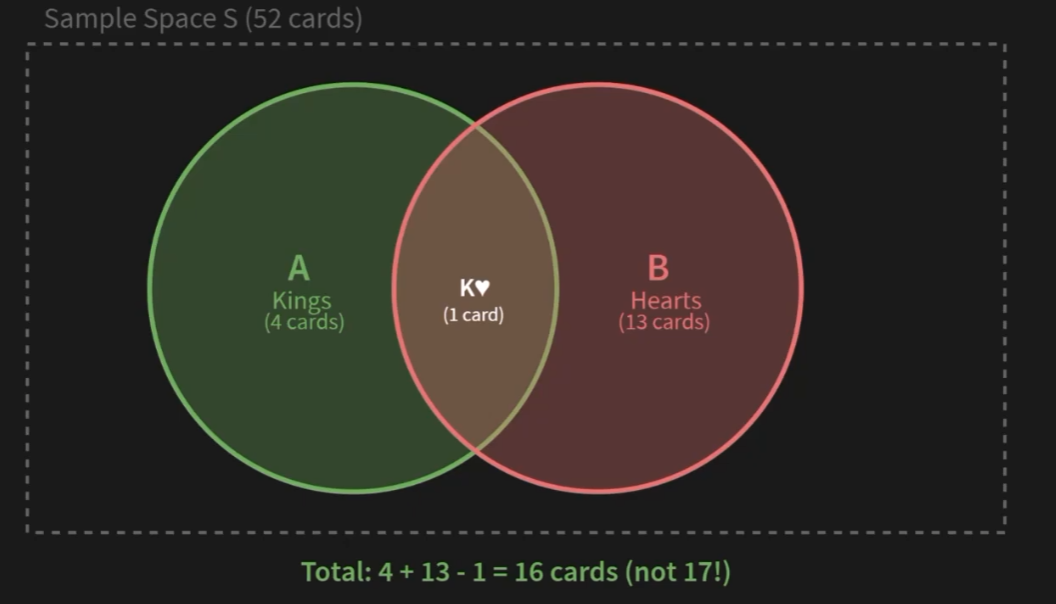
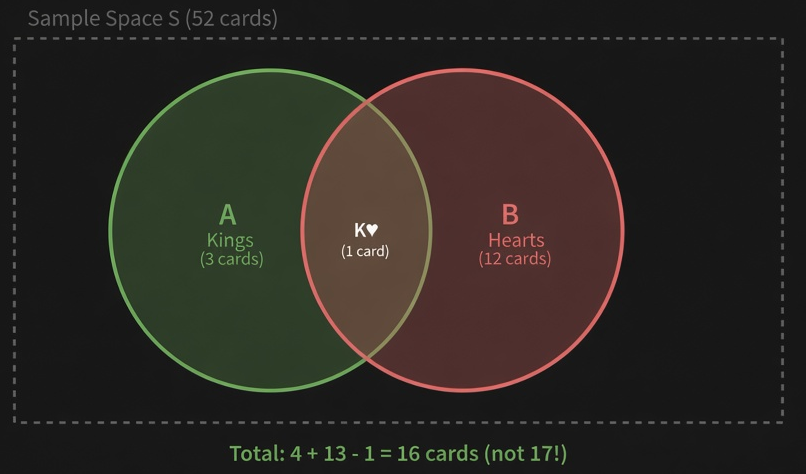
Polishing

diff --git a/Math/probability/introduction.md b/Math/probability/introduction.md
@@ -267,6 +267,130 @@ A \cup B &\rightarrow A \text{ or } B
 ```
 
 <div align='center'>
+    <h1> Thought Process </h1>
+</div>
+
+When solving a probability question, it is useful to separate the problem into three stages. Rather than immediately looking for a formula,
+
+1. Establish **what can happen**
+2. What we are **interested in**
+3. Which **probability rule** allows us to calculate what we want
+
+The three stages are,
+
+```math
+\boxed{\text{1. Identify the sample space} \rightarrow \text{2. Create the events} \rightarrow \text{3. Apply the rules}}
+```
+
+Each stages answers a different question.
+
+### 1. Identify the Sample Space
+
+First, determine **all possible outcomes** of the experiment. The sample space is the set containing every outcome that could occur. Before calculating a probability, we need to establish the possible outcomes of the experiment. The first question to ask is,
+
+<div align='center'>
+    <h5> What can happen? </h5>
+</div>
+
+For a single roll of a six-sided die, the possible outcomes are,
+
+```math
+S = \{ 1, 2, 3, 4, 5, 6\}
+```
+
+Therefore,
+
+```math
+S = \text{All possible outcomes}
+```
+
+The sample space provides the **foundation for the rest of the problem**. Every event we create must consist of outcomes contained within the sample space.
+
+```math
+E ⊆ S
+```
+
+### 2. Create the Events
+
+Once we know what can happen, we can identify **which outcomes we are interested in**. An event is a set of outcomes from the sample space that satisfy a particular condition. The second question is to ask,
+
+<div align='center'>
+    <h5> What are we interested in? </h5>
+</div>
+
+There can be multiple events within the sample space. For example, when rolling a six-sided die, we could define
+
+```math
+\begin{aligned}
+A &= \{ \text{Even number} \} &= \{ 2, 4, 6\} \\
+B &= \{ \text{Number > 3} \}  &= \{ 4, 5, 6\} \\
+\end{aligned}
+```
+
+Both are events because they are subsets of the sample space
+
+```math
+A ⊆ S \\
+B ⊆ S \\
+```
+
+Creating events gives us a way to describe the particular outcomes we want to investigate without repeatedly listing them. For example, instead of saying,
+
+<div align='center'>
+    <h5> The probability of rolling an even number and a number > 3 </h5>
+</div>
+
+we can refer to the events as $A$ and $B$. This allows us to express relationships between events mathematically.
+
+When an experiment consists of multiple stages, we can use a **probability tree** to organise the events and their possible outcomes. Each branch represents a possible outcome, allowing us to follow the different paths through the experiment.
+
+### 3. Apply the Rules
+
+Once we have identified the sample space and created the events, we can determine **how the events are related** and select the appropriate probability rule. The third question to ask is,
+
+<div align='center'>
+    <h5> How can we calculate the probability we want? </h5> 
+</div>
+
+For example, we may want to know the probability that both $A$ and $B$ occur. This is called the intersection of the two events and is written as,
+
+```math
+A \cap B
+```
+
+so the probability that both events occur is,
+
+```math
+P(A \cap B)
+```
+
+We can use a probability tree to follow the branches corresponding to $A$ and then $B$. The probability of following both branches is found by multiplying the probabilities along the path. For any two events, the multiplication rule is,
+
+```math
+P(A \cap B) = P(A) \cdot P(B \mid A)
+```
+
+where $P(B \mid A)$ represents the probability of $B$ occurring given that $A$ has already occurred. If $A$ and $B$ are independent, the occurrence of $A$ does not effect the probability of $B$, so
+
+```math
+P(B \mid A) = P(B)
+```
+
+and the multiplication rule becomes
+
+```math
+P(A \cap B) = P(A) \cdot P(B)
+```
+
+For an independent example, use **two separate dice**. Let $A$ be "The first die rolls an even number" and $B$ be "The second die rolls a number greater than 3". Knowing the result of the first die **does not effect the second die**, so
+
+```math
+P(B \mid A) = P(B) = \frac{3}{6} = \frac{1}{2}
+```
+
+The probability tree therefore provides a way to **organise the possible outcomes and identify the relationships between events**, while the probability rules provide the mathematical method for calculating the probability we want. It's important to reinforce, **events do not mean separate rolls**. This is an important distinction, an event is **simply a condition applied to an experiment**. Multiple events can refer to the same outcome. Previously, $P(A \cap B)$ referred to a **single roll**. We are simply asking whether the result satisfies both conditions.
+
+<div align='center'>
     <h1> $A \cap B \qquad A \text{ and } B$</h1>
 </div>
 
@@ -416,6 +540,7 @@ The percentage is simply another representation of the same probability. It does
 ```
 
 rolls to satisfy both conditions. This is a **long-run interpretation** of the probability. It does not alter the original 6 outcome sample space. Therefore, the four statements are all describing the same probability.
+
 ### The Multiplication Rule
 
 The direct counting method above works particularly well when the sample space is small and its outcomes are easily enumerated. However, probability frequently involves much larger or sequential sample spaces where directly listing every outcome is impractical. This is where the multiplication rule becomes important. The general multiplication is

diff --git a/Math/calculus/integrals/definite_and_indefinite_integrals.md b/Math/calculus/integrals/definite_and_indefinite_integrals.md
@@ -22,9 +22,13 @@ treats $y$ as a constant, whereas
 
 treats $x$ as a constant.
 
-In a **definite integral**, the product $f(x)\,dx$ represents an infinitesimal contribution to an accumulated quantity, such as the area of a thin rectangle, and the integral sums these contributions over a specified interval. 
+In a **definite integral**, the product $f(x)\,dx$ represents an infinitesimal contribution to an accumulated quantity, such as the area of a thin rectangle, and the integral sums these contributions over a specified interval.
 
 In an **indefinite integral**, however, **no accumulation over an interval is taking place**. Instead, $\int f(x) \, dx$ denotes the family of functions whose derivative is $f(x)$. Although these two concepts have **different interpretations, they share the notation** $f(x) \, dx$ because the differential identifies the variable of integration and reflects the close relationship between integration and differentiation established by the Fundamental Theorem of Calculus.
+
+<div align='center'>
+    <img src='./images/10.png' width=700>
+</div>
 
 <div align='center'>
     <h1> Indefinite Integrals </h1>
@@ -64,8 +68,8 @@ Now reversing this procedure,
 \begin{aligned}
 \int dy &= \int 2x \ dx \\
 \int 1 \ dy  &= \int 2x \ dx  \\
-\int 1 \ dy \text{ Integrate 1 with respect to } y  
-&= \int 2x \ dx \text{ Integrate } 2x \text{ with respect to x} \\ 
+\int 1 \ dy \text{ Integrate 1 with respect to } y
+&= \int 2x \ dx \text{ Integrate } 2x \text{ with respect to x} \\
 y &= x^2
 \end{aligned}
 ```
@@ -205,13 +209,13 @@ The relationship between graphs provide important information. Consider $x$ as t
 
 - Integrating $\int 2t \ dt$ sums these rectangles on the velocity graph.
 
-- The result equals the total change in position $\Delta y$  on the original position graph.
+- The result equals the total change in position $\Delta y$ on the original position graph.
 
 <div align='center'>
     <img src='./images/8.png' width='1000'/>
 </div>
 
-In other words, the area under the velocity curve, the sum of $\frac{m}{s}s$ equals the net displacement on the position graph. The $dx$ (or $dt$) is the same horizontal increment on both graphs, but the integral connects the accumulated area on one graph to the net change in the vertical quantity on the other. 
+In other words, the area under the velocity curve, the sum of $\frac{m}{s}s$ equals the net displacement on the position graph. The $dx$ (or $dt$) is the same horizontal increment on both graphs, but the integral connects the accumulated area on one graph to the net change in the vertical quantity on the other.
 
 <div align='center'>
     <h1> Definite Integrals </h1>
@@ -224,7 +228,7 @@ If $f(x)$ represents the value of a quantity at each point $x$, then
 ```math
 \int^b_a f(x) \ dx
 ```
- 
+
 accumulates the infinitesimal quantities $f(x) \ dx$ from $x = a$ to $a = b$. When $f(x)$ is non-negative, this accumulation is the area under the curve between the graph and the $x$-axis. The Fundamental Theorem of Calculus provides an efficient method for evaluating a definite integral. If $F(x)$ is an antiderivative of $f(x)$, meaning,
 
 ```math

diff --git a/Math/logarithms.md b/Math/logarithms.md
@@ -444,3 +444,41 @@ It follows,
 ```math
 b^{\log_b{x}} = x
 ```
+
+<div align='center'> <h1>Cancellation</h1> </div>
+
+We want to prove
+
+```math
+\log_b(b^x)=x 
+```
+
+Now, we always build from the definitions, so write it down.
+
+```math
+\log_b(x)=y \Leftrightarrow b^y=x
+```
+
+Observe from the definition,
+
+```math
+b^y=x
+```
+
+Therefore, we can replace $x$ directly with $b^y$ in the definition,
+
+```math
+\log_b(x)=y
+```
+
+giving
+
+```math
+\log_b(b^y)=y
+```
+
+Since $y$ represents any exponent, we can rename it $x$,
+
+```math
+\boxed{\log_b (b^x) = x}
+```
